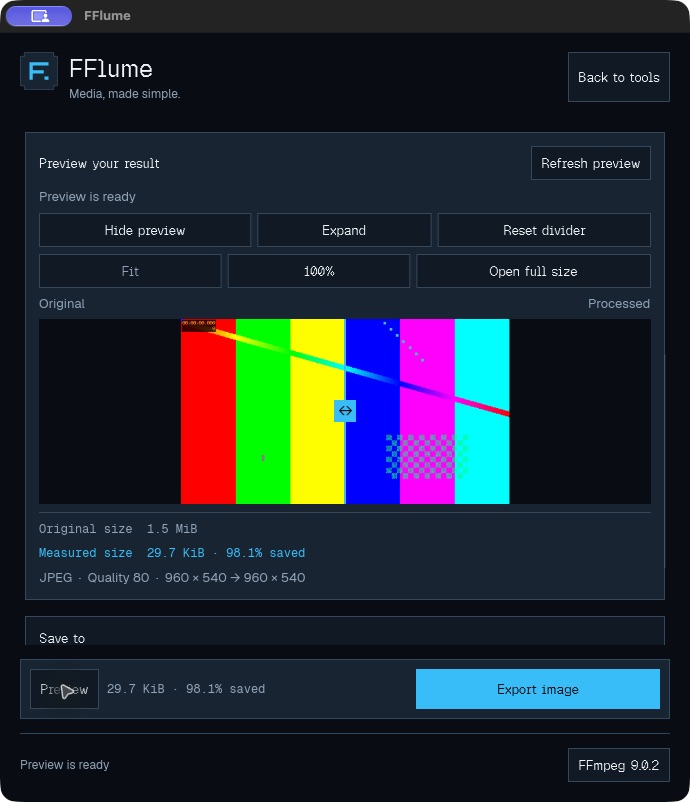
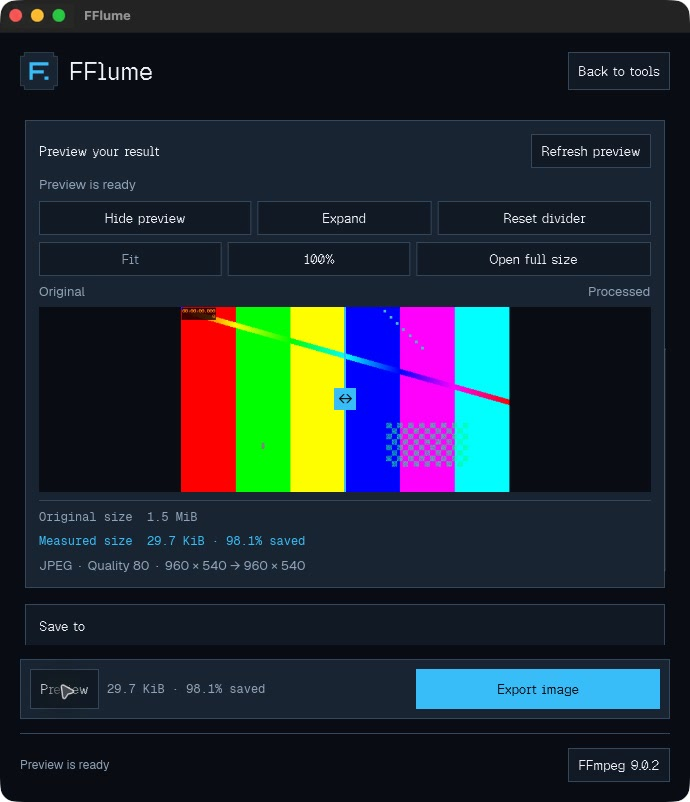
Refresh README and contribution guide

Changed region(s): [[0.0304, 0.3429, 0.9739, 0.8105], [0.0304, 0.0623, 0.9739, 0.3429], [0.0, 0.0, 0.1217, 0.0312]]

diff --git a/README.md b/README.md
@@ -1,78 +1,88 @@
-# FFlume
+<p align="center">
+  <img src="assets/mark.svg" alt="FFlume logo" width="64" height="64">
+</p>
 
-FFlume is a native desktop app for converting video, audio, images, and PDF pages. Browse the tools or open a file to see what you can do with it. Preview the result before you export.
+<h1 align="center">FFlume</h1>
 
-Built with Rust and Slint. FFmpeg and ffprobe handle media processing, and Poppler handles PDFs.
+<p align="center"><strong>Make every byte count.</strong></p>
+<p align="center">Convert, compress, and preview media in one lightweight desktop app.</p>
 
-| Tool dashboard | Before-and-after preview |
+<p align="center">
+  <a href="#installation"><strong>Get started</strong></a> ·
+  <a href="#features">Features</a> ·
+  <a href="#screenshots">Screenshots</a>
+</p>
+
+<p align="center">
+  <img src="docs/images/dashboard.jpg" alt="FFlume dashboard with a file picker, tool search, and categorized media tools" width="690">
+</p>
+
+## Why FFlume
+
+- **Compare before you export.** Drag the divider between the original and encoded image, then check the measured output size. For video compression, compare frames at the same timestamp.
+- **Choose a target file size.** Set a size for lossy JPEG or WebP and let FFlume try different quality settings.
+- **Preview the media you’re working with.** Play GIFs inside FFlume, open audio A/B samples in your system player, and preview PDF pages before exporting.
+
+## Features
+
+| Media | What you can do |
 | --- | --- |
-| <img src="docs/images/dashboard.jpg" alt="FFlume dashboard with a file picker, tool search, and categorized actions" width="420"> | <img src="docs/images/before-after.jpg" alt="FFlume comparing a source PNG with its encoded JPEG and showing the measured output size" width="420"> |
-
-## What you can do
-
-| Media | Tools |
-| --- | --- |
-| Video | Compress to H.264, convert between MP4 and MKV, trim, extract MP3 audio, create looping GIFs, or export individual frames and sequences. |
+| Video | Compress to H.264, convert between MP4 and MKV, trim clips, extract MP3 audio, make looping GIFs, and export frames. |
 | Audio | Convert to MP3, WAV, FLAC, or Opus. Trim clips and normalize loudness. |
-| Images | Convert to PNG, JPEG, or WebP. Resize by dimensions or scale, choose a quality preset, or target a file size for lossy JPEG and WebP. |
-| PDF | Preview pages and export individual pages, ranges, or the entire document as PNG or JPEG. |
+| Images | Convert to PNG, JPEG, or WebP. Resize by dimensions or scale, choose a quality preset, or set a target size for lossy JPEG and WebP. |
+| PDF | Preview pages and export selected pages, ranges, or the whole document as PNG or JPEG. Requires Poppler. |
 
-For images, drag the divider to compare the original with the encoded result. Use **Fit** to see the whole image or **100%** to inspect the center at native pixel scale. The preview reports the measured output size and shows when the result is larger. If the source and settings still match, FFlume can reuse the preview when you export.
+## Screenshots
 
-Video compression compares frames at the same timestamp. GIFs play in the preview panel, and audio A/B samples open in the system player. Fast video trim copies streams, so cuts can land near keyframes. If an output name already exists, **Keep both** saves a numbered copy.
+<p align="center">
+  <img src="docs/images/before-after.jpg" alt="Image comparison showing the original PNG, the encoded JPEG, and its measured size" width="600">
+</p>
 
-## Getting started on macOS
+*Image preview with a draggable comparison divider and measured output size.*
 
-Apple Silicon is the verified platform. To build locally, install [Rust 1.92 or newer](https://rustup.rs/), the Xcode Command Line Tools, and [Homebrew](https://brew.sh/).
+## Installation
+
+Verified on Apple Silicon Macs.
+
+### Homebrew
+
+Homebrew installation is coming soon. The [release checklist](docs/HOMEBREW_RELEASE.md) tracks what remains before the formula is published.
+
+### Build from source
+
+On macOS, install Rust 1.92 or newer and FFmpeg. The commands below use Homebrew to install the FFmpeg dependency.
 
 ```sh
-xcode-select --install  # Skip if the tools are already installed
+git clone https://github.com/ttp2410/FFlume.git
+cd FFlume
 brew install ffmpeg
-cargo run --locked
-```
-
-For a release build:
-
-```sh
 cargo build --release --locked
 ./target/release/fflume
 ```
 
-To make a local `FFlume.app` for testing, run `sh scripts/bundle-macos.sh` after the release build. Use `fflume --help` for command-line usage or `fflume --version` to check the installed version.
-
-### Homebrew release status
-
-The [source formula](homebrew-tap/Formula/fflume.rb) is prepared. Installation through a public tap is pending a tagged source archive and its checksum. Once the tap is published, replace `USERNAME` with the published tap owner. Homebrew builds FFlume from source using the Cargo lockfile and installs FFmpeg as a runtime dependency.
-
-```sh
-brew install USERNAME/tap/fflume
-fflume
-
-brew update
-brew upgrade USERNAME/tap/fflume
-brew uninstall USERNAME/tap/fflume
-```
-
-See the [Homebrew release checklist](docs/HOMEBREW_RELEASE.md) for publication and installation checks.
-
-### Optional format support
-
-- **WebP** requires an FFmpeg build with `libwebp`. If WebP is missing from the format list, click the FFmpeg version in the footer and use **Choose FFmpeg…** to select a compatible executable. Homebrew’s [ffmpeg-full](https://formulae.brew.sh/formula/ffmpeg-full) is one option.
-- **PDF** requires Poppler. Install it with `brew install poppler` or use **Install Poppler** in FFlume. PDF export renders pages with a 2400-pixel long edge.
+| Optional feature | Dependency |
+| --- | --- |
+| PDF export | Install Poppler with `brew install poppler` or use **Install Poppler** in FFlume. |
+| WebP export | Use an FFmpeg build with `libwebp`. To select one, click the FFmpeg version in the footer and choose **Choose FFmpeg…**. |
 
 ## Development
 
+FFlume uses Rust and Slint, FFmpeg and ffprobe for media, and Poppler for PDFs.
+
 ```sh
 cargo fmt --check
-cargo check --locked
 cargo clippy --locked --all-targets -- -D warnings
 cargo test --locked
 ```
 
-To run the full integration suite, install FFmpeg with `libwebp`, ffprobe, and Poppler, then run `cargo test --locked -- --include-ignored`. Set `FFLUME_TEST_FFMPEG` or `FFLUME_TEST_FFPROBE` to select specific executables. If your FFmpeg lacks WebP support, add `--skip ffmpeg_webp_export` after `--`.
+Run `cargo run --locked` for a development build. Run `sh scripts/bundle-macos.sh` after the build to create a local app bundle.
 
-The default renderer is Winit with FemtoVG. To try the software renderer, run `cargo run --release --no-default-features --features renderer-software`. See the [QA report](docs/FINAL_QA_REPORT.md) for the tested workflows and platform coverage.
+For integration test coverage and packaging instructions, see the [QA report](docs/FINAL_QA_REPORT.md) and the [Homebrew release checklist](docs/HOMEBREW_RELEASE.md).
 
-## License
+## Contributing
 
-FFlume is licensed under [GPL-3.0-only](LICENSE) and uses Slint under its GPL-3.0 option. The bundled Geist Pixel, Geist Sans, and Geist Mono fonts are from [Vercel’s Geist v1.9.2 release](https://github.com/vercel/geist-font/releases/tag/v1.9.2). See the [SIL Open Font License](assets/fonts/Geist-OFL.txt) and [original notice](assets/fonts/Geist-LICENSE.txt).
+Bug reports, feature suggestions, and pull requests are welcome. See the [contribution guide](CONTRIBUTING.md) for what to include and how to run checks.
+
+## License and acknowledgements
+
+FFlume is licensed under [GPL-3.0-only](LICENSE) and uses Slint under its GPL-3.0 option. Media processing uses FFmpeg and ffprobe, and PDF export uses Poppler. The bundled Geist Pixel, Geist Sans, and Geist Mono fonts are distributed under the [SIL Open Font License](assets/fonts/Geist-OFL.txt). See the [font copyright notice](assets/fonts/Geist-LICENSE.txt).

diff --git a/CONTRIBUTING.md b/CONTRIBUTING.md
@@ -1,0 +1,18 @@
+# Contributing to FFlume
+
+## Report an issue
+
+Check [existing issues](https://github.com/ttp2410/FFlume/issues) before opening one. Include your macOS version, Mac architecture, FFlume version, and the versions of FFmpeg or Poppler involved. For a bug, describe the steps to reproduce it, what you expected, and what happened. Attach a small sample you can share if the issue depends on a specific file.
+
+## Submit a pull request
+
+1. Fork the repository and create a branch for your change. Follow the [source build instructions](README.md#build-from-source) to run FFlume locally.
+2. Keep Rust changes formatted with `cargo fmt`. For Slint changes, use the shared UI components and theme where possible. Check the affected screen and workflow in the app.
+3. Run the checks below. For a media processing change, run the relevant integration tests with the dependencies listed in the [QA report](docs/FINAL_QA_REPORT.md).
+4. Open a pull request describing what changed and how you verified it. Link the related issue and include a screenshot for visible UI changes.
+
+```sh
+cargo fmt --check
+cargo clippy --locked --all-targets -- -D warnings
+cargo test --locked
+```
